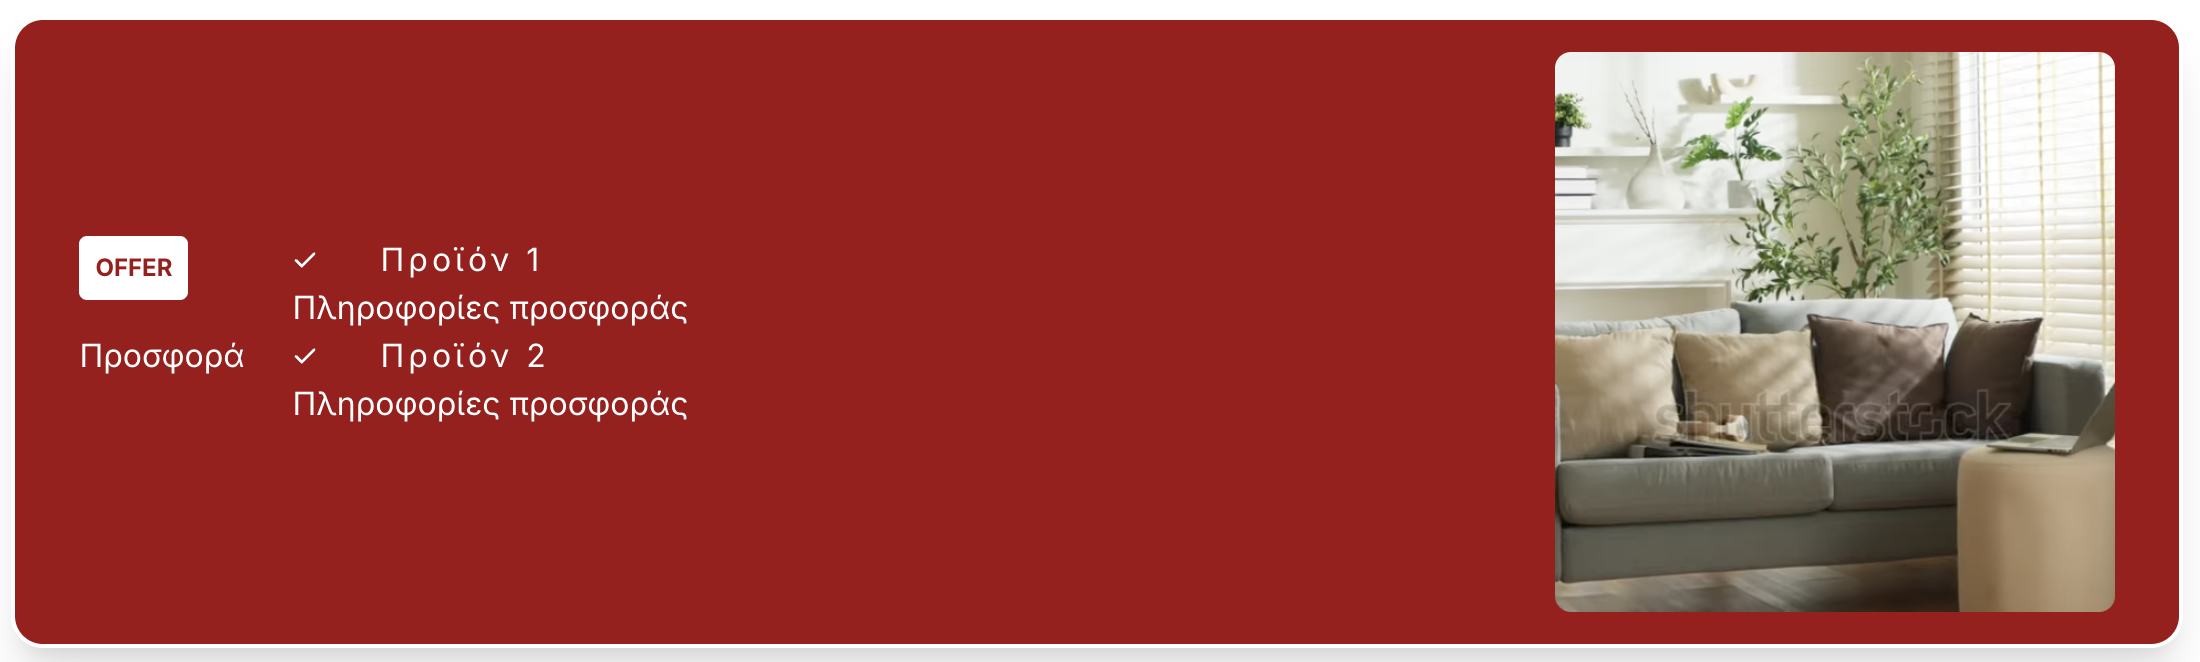
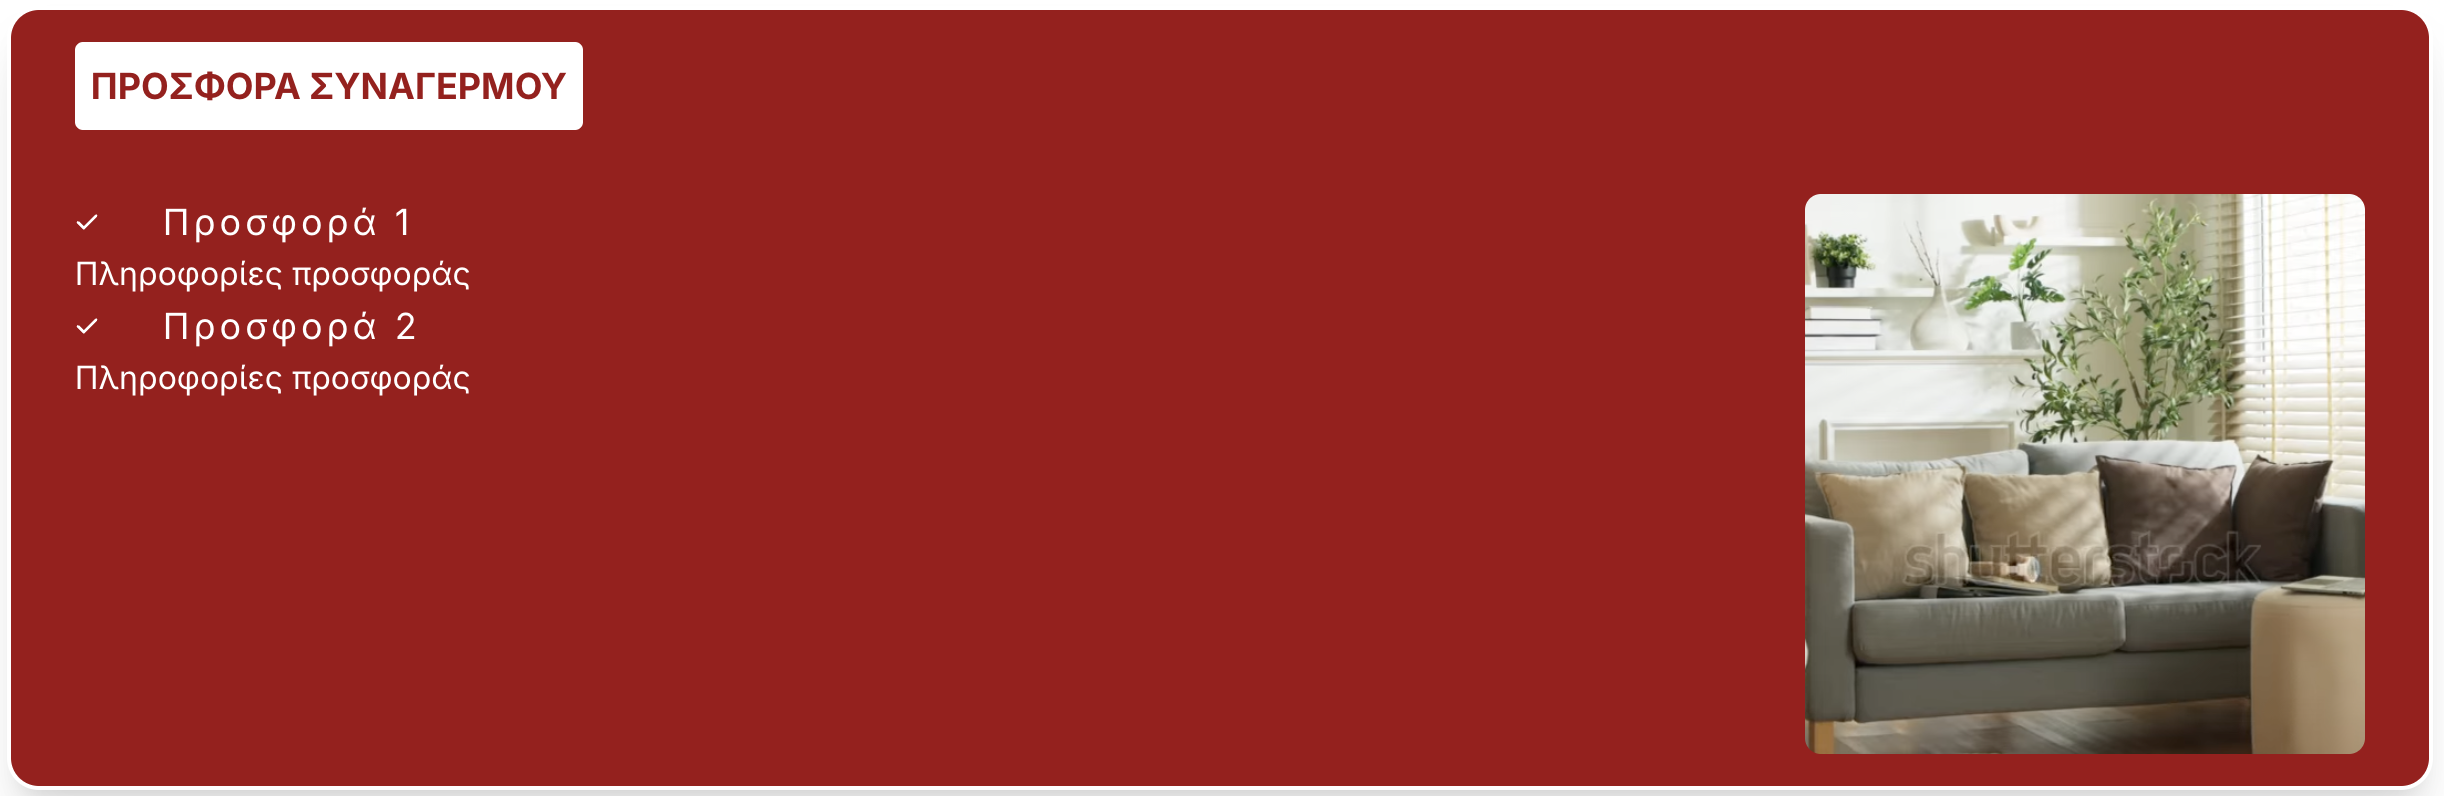
offer slice

diff --git a/slices/Offer/index.vue b/slices/Offer/index.vue
@@ -22,31 +22,28 @@ defineProps(
 
   <div class="mx-auto p-sm sm:px-8 sm:py-4 bg-brand text-white border-white border-2 rounded-2xl shadow-xl">
     <div class="max-w-content mx-auto">
+
+        <div class="inline-flex items-center space-x-2xs min-w-fit bg-white text-brand rounded px-2 py-2 mb-8">
+          <span class="font-bold uppercase tracking-5pc text-center w-full text-lg max-w-[27rem]">{{ slice.primary.title }}</span>
+        </div>
+    
       <div class="flex justify-between lg:items-center gap-6 flex-col sm:flex-row">
-        <div class="flex gap-6 flex-col lg:flex-row">
+        <div class="flex flex-col lg:flex-row">
           <div>
             <div>
-              <div class="inline-flex items-center space-x-2xs min-w-fit bg-white text-brand rounded px-2 py-2 mb-4">
-                <span class="font-bold text-xs uppercase tracking-5pc text-center w-full">Offer</span>
-              </div>
-            </div>
-            <h2 class="title-x-small sm:title-medium lg:mb-lg max-w-[27rem]">{{ slice.primary.title }}</h2>
-        </div>
-        <div class="lg:self-center">
-          <div>
-            <div class="flex gap-8 items-center">
-              <svg width="12" height="8" viewBox="0 0 12 8" fill="currentColor" xmlns="http://www.w3.org/2000/svg"><path d="M4.36664 6.1L10.0166 0.45C10.15 0.316667 10.3083 0.25 10.4916 0.25C10.675 0.25 10.8333 0.316667 10.9666 0.45C11.1 0.583333 11.1666 0.741667 11.1666 0.925C11.1666 1.10833 11.1 1.26667 10.9666 1.4L4.83331 7.53333C4.69998 7.66667 4.54442 7.73333 4.36664 7.73333C4.18886 7.73333 4.03331 7.66667 3.89998 7.53333L1.03331 4.66667C0.899975 4.53333 0.836086 4.375 0.841642 4.19167C0.847197 4.00833 0.916642 3.85 1.04998 3.71667C1.18331 3.58333 1.34164 3.51667 1.52498 3.51667C1.70831 3.51667 1.86664 3.58333 1.99998 3.71667L4.36664 6.1Z"></path></svg>
-              <div class="tracking-[0.125rem] text-white">Προϊόν 1</div>
-            </div>
-            <div>Πληροφορίες προσφοράς</div>
-          </div>
-          <div>
-            <div class="flex gap-8 items-center"><svg width="12" height="8" viewBox="0 0 12 8" fill="currentColor" xmlns="http://www.w3.org/2000/svg"><path d="M4.36664 6.1L10.0166 0.45C10.15 0.316667 10.3083 0.25 10.4916 0.25C10.675 0.25 10.8333 0.316667 10.9666 0.45C11.1 0.583333 11.1666 0.741667 11.1666 0.925C11.1666 1.10833 11.1 1.26667 10.9666 1.4L4.83331 7.53333C4.69998 7.66667 4.54442 7.73333 4.36664 7.73333C4.18886 7.73333 4.03331 7.66667 3.89998 7.53333L1.03331 4.66667C0.899975 4.53333 0.836086 4.375 0.841642 4.19167C0.847197 4.00833 0.916642 3.85 1.04998 3.71667C1.18331 3.58333 1.34164 3.51667 1.52498 3.51667C1.70831 3.51667 1.86664 3.58333 1.99998 3.71667L4.36664 6.1Z"></path></svg>
-                <div class="tracking-[0.125rem] text-white">Προϊόν 2</div>
+              <div class="flex gap-8 items-center">
+                <svg width="12" height="8" viewBox="0 0 12 8" fill="currentColor" xmlns="http://www.w3.org/2000/svg"><path d="M4.36664 6.1L10.0166 0.45C10.15 0.316667 10.3083 0.25 10.4916 0.25C10.675 0.25 10.8333 0.316667 10.9666 0.45C11.1 0.583333 11.1666 0.741667 11.1666 0.925C11.1666 1.10833 11.1 1.26667 10.9666 1.4L4.83331 7.53333C4.69998 7.66667 4.54442 7.73333 4.36664 7.73333C4.18886 7.73333 4.03331 7.66667 3.89998 7.53333L1.03331 4.66667C0.899975 4.53333 0.836086 4.375 0.841642 4.19167C0.847197 4.00833 0.916642 3.85 1.04998 3.71667C1.18331 3.58333 1.34164 3.51667 1.52498 3.51667C1.70831 3.51667 1.86664 3.58333 1.99998 3.71667L4.36664 6.1Z"></path></svg>
+                <div class="tracking-[0.125rem] text-lg text-white">Προσφορά 1</div>
               </div>
               <div>Πληροφορίες προσφοράς</div>
             </div>
-          </div>
+            <div>
+              <div class="flex gap-8 items-center"><svg width="12" height="8" viewBox="0 0 12 8" fill="currentColor" xmlns="http://www.w3.org/2000/svg"><path d="M4.36664 6.1L10.0166 0.45C10.15 0.316667 10.3083 0.25 10.4916 0.25C10.675 0.25 10.8333 0.316667 10.9666 0.45C11.1 0.583333 11.1666 0.741667 11.1666 0.925C11.1666 1.10833 11.1 1.26667 10.9666 1.4L4.83331 7.53333C4.69998 7.66667 4.54442 7.73333 4.36664 7.73333C4.18886 7.73333 4.03331 7.66667 3.89998 7.53333L1.03331 4.66667C0.899975 4.53333 0.836086 4.375 0.841642 4.19167C0.847197 4.00833 0.916642 3.85 1.04998 3.71667C1.18331 3.58333 1.34164 3.51667 1.52498 3.51667C1.70831 3.51667 1.86664 3.58333 1.99998 3.71667L4.36664 6.1Z"></path></svg>
+                  <div class="tracking-[0.125rem] text-lg text-white">Προσφορά 2</div>
+                </div>
+                <div>Πληροφορίες προσφοράς</div>
+              </div>
+            </div>
         </div>
         <div class="w-full shrink-0 relative group hover_cursor-pointer h-[160px] sm:h-[280px] sm:w-[280px]">
           <video class="w-full h-full object-cover rounded-lg" src="https://www.shutterstock.com/shutterstock/videos/1105695263/preview/stock-footage-home-interior-design-detail-of-modern-clean-living-room-with-soft-and-cosy-sunlight-pillow.webm" autoplay="" loop="" muted="" playsinline="" data-cmp-info="10"></video>

diff --git a/prismicio-types.d.ts b/prismicio-types.d.ts
@@ -678,28 +678,53 @@ type ImageCardsSliceVariation = ImageCardsSliceDefault
 export type ImageCardsSlice = prismic.SharedSlice<'image_cards', ImageCardsSliceVariation>
 
 /**
- * Primary content in *Offer → Default → Primary*
+ * Item in *Offer → Default → Primary → Offer item*
  */
-export interface OfferSliceDefaultPrimary {
+export interface OfferSliceDefaultPrimaryOfferItemItem {
   /**
-   * title field in *Offer → Default → Primary*
+   * title field in *Offer → Default → Primary → Offer item*
    *
    * - **Field Type**: Text
    * - **Placeholder**: Title
-   * - **API ID Path**: offer.default.primary.title
+   * - **API ID Path**: offer.default.primary.offer_item[].title
    * - **Documentation**: https://prismic.io/docs/field#key-text
    */
   title: prismic.KeyTextField
 
   /**
-   * description field in *Offer → Default → Primary*
+   * description field in *Offer → Default → Primary → Offer item*
    *
-   * - **Field Type**: Text
-   * - **Placeholder**: Description
-   * - **API ID Path**: offer.default.primary.description
-   * - **Documentation**: https://prismic.io/docs/field#key-text
+   * - **Field Type**: Rich Text
+   * - **Placeholder**: *None*
+   * - **API ID Path**: offer.default.primary.offer_item[].description
+   * - **Documentation**: https://prismic.io/docs/field#rich-text-title
    */
-  description: prismic.KeyTextField
+  description: prismic.RichTextField
+
+  /**
+   * image field in *Offer → Default → Primary → Offer item*
+   *
+   * - **Field Type**: Image
+   * - **Placeholder**: *None*
+   * - **API ID Path**: offer.default.primary.offer_item[].image
+   * - **Documentation**: https://prismic.io/docs/field#image
+   */
+  image: prismic.ImageField<never>
+}
+
+/**
+ * Primary content in *Offer → Default → Primary*
+ */
+export interface OfferSliceDefaultPrimary {
+  /**
+   * Offer item field in *Offer → Default → Primary*
+   *
+   * - **Field Type**: Group
+   * - **Placeholder**: *None*
+   * - **API ID Path**: offer.default.primary.offer_item[]
+   * - **Documentation**: https://prismic.io/docs/field#group
+   */
+  offer_item: prismic.GroupField<Simplify<OfferSliceDefaultPrimaryOfferItemItem>>
 }
 
 /**
@@ -842,6 +867,7 @@ declare module '@prismicio/client' {
       ImageCardsSliceVariation,
       ImageCardsSliceDefault,
       OfferSlice,
+      OfferSliceDefaultPrimaryOfferItemItem,
       OfferSliceDefaultPrimary,
       OfferSliceVariation,
       OfferSliceDefault,
